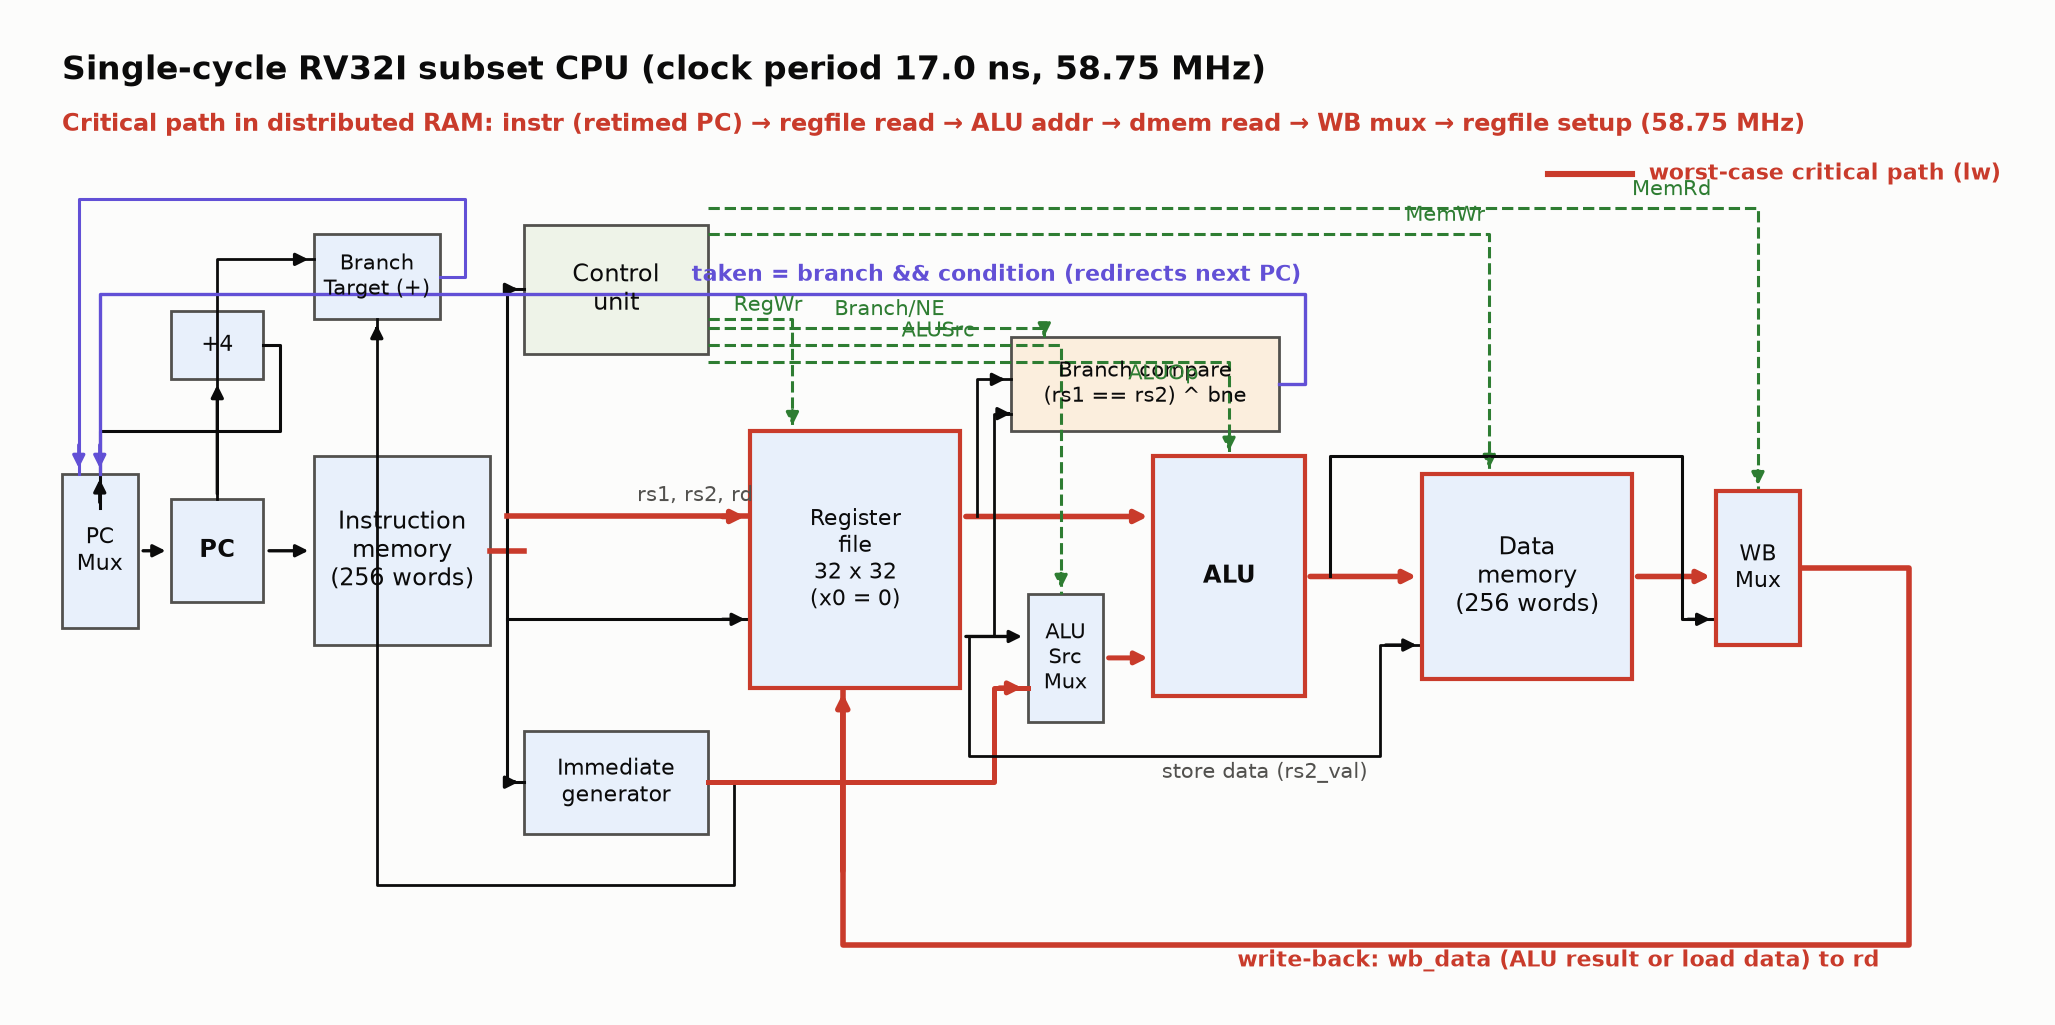
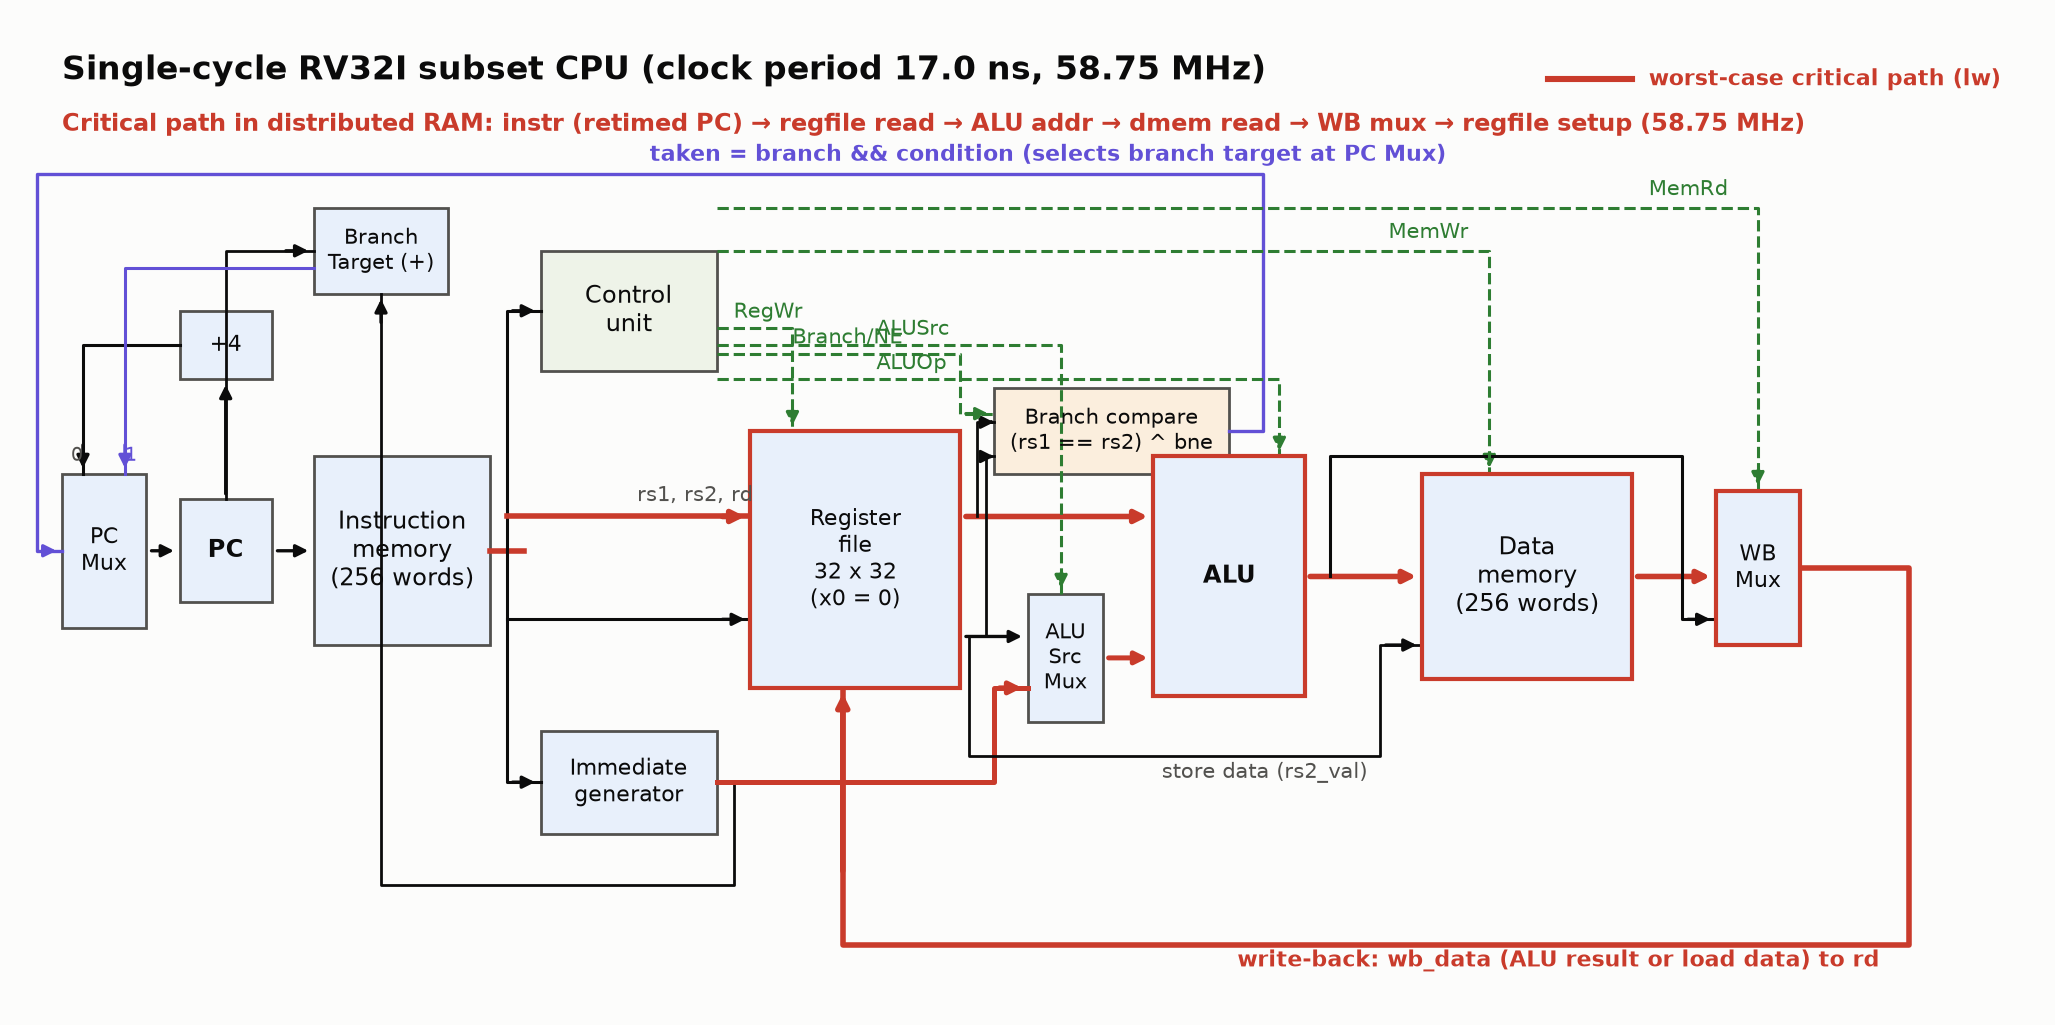
fix(report): fix architecture_single overlaps, PC Mux inputs, and viva datapath sketch

diff --git a/tools/figures.py b/tools/figures.py
@@ -370,53 +370,61 @@ def fig_architecture_single() -> None:
     ctrl_color = "#2e7d32"
     branch_color = "#6250d6"
 
+    # Header and Banner
     ax.text(0.5, 10.8, f"Single-cycle RV32I subset CPU (clock period {period_ns:.1f} ns, {fmax:.2f} MHz)",
             fontsize=12, fontweight="bold")
-
-    # Critical path highlight banner
     ax.text(0.5, 10.2, f"Critical path in distributed RAM: instr (retimed PC) → regfile read → ALU addr → dmem read → WB mux → regfile setup ({fmax:.2f} MHz)",
             fontsize=8.5, color=crit_color, fontweight="bold")
 
-    # PC Mux & PC
-    box(ax, 0.5, 4.4, 0.9, 1.8, "PC\nMux", size=8)
-    box(ax, 1.8, 4.7, 1.1, 1.2, "PC", weight="bold")
-    arrow(ax, (1.4, 5.3), (1.8, 5.3))
+    # Legend at top right (away from all wires and labels)
+    ax.plot([18.2, 19.2], [10.8, 10.8], color=crit_color, linewidth=2.2)
+    ax.text(19.4, 10.8, "worst-case critical path (lw)", va="center", fontsize=8, color=crit_color, fontweight="bold")
 
-    # PC Adders (+4 and Branch target)
-    box(ax, 1.8, 7.3, 1.1, 0.8, "+4", size=8)
-    arrow(ax, (2.35, 5.9), (2.35, 7.3))
-    # PC+4 to PC mux
-    ax.plot([2.9, 3.1, 3.1, 0.95, 0.95], [7.7, 7.7, 6.7, 6.7, 5.8], color=INK, linewidth=1.1)
-    arrow(ax, (0.95, 5.8), (0.95, 6.2))
+    # 1. PC Mux & PC
+    box(ax, 0.5, 4.4, 1.0, 1.8, "PC\nMux", size=8)
+    box(ax, 1.9, 4.7, 1.1, 1.2, "PC", weight="bold")
+    arrow(ax, (1.5, 5.3), (1.9, 5.3))
 
-    # Instruction memory
+    # PC Adders: +4 and Branch target
+    box(ax, 1.9, 7.3, 1.1, 0.8, "+4", size=8)
+    # PC to +4 adder
+    arrow(ax, (2.45, 5.9), (2.45, 7.3))
+    # PC+4 to PC Mux input 0 (enters from top-left of PC Mux at x=0.75)
+    ax.plot([1.9, 0.75, 0.75], [7.7, 7.7, 6.2], color=INK, linewidth=1.1)
+    arrow(ax, (0.75, 6.6), (0.75, 6.2))
+    ax.text(0.75, 6.35, "0", fontsize=7, color=INK2, ha="right")
+
+    # Branch Target adder (PC + imm) placed at x=3.5, y=8.3, h=1.0
+    box(ax, 3.5, 8.3, 1.6, 1.0, "Branch\nTarget (+)", size=7.5)
+    # PC to Branch Target adder
+    ax.plot([2.45, 2.45, 3.5], [5.9, 8.8, 8.8], color=INK, linewidth=1.0)
+    arrow(ax, (3.1, 8.8), (3.5, 8.8))
+    # imm to Branch Target adder
+    ax.plot([8.3, 8.5, 8.5, 4.3, 4.3], [2.6, 2.6, 1.4, 1.4, 8.3], color=INK, linewidth=1.0)
+    arrow(ax, (4.3, 7.9), (4.3, 8.3))
+    # Branch target output to PC Mux input 1 (enters from top-right of PC Mux at x=1.25)
+    ax.plot([3.5, 1.25, 1.25], [8.6, 8.6, 6.2], color=branch_color, linewidth=1.1)
+    arrow(ax, (1.25, 6.6), (1.25, 6.2), color=branch_color)
+    ax.text(1.25, 6.35, "1", fontsize=7, color=branch_color, ha="left")
+
+    # 2. Instruction memory
     box(ax, 3.5, 4.2, 2.1, 2.2, "Instruction\nmemory\n(256 words)")
-    arrow(ax, (2.9, 5.3), (3.5, 5.3))
+    arrow(ax, (3.0, 5.3), (3.5, 5.3))
 
     # Instruction bus split out of IMEM (Critical path starts at retimed instr)
     ax.plot([5.6, 6.0], [5.3, 5.3], color=crit_color, linewidth=2.0)
 
-    # Control unit
-    box(ax, 6.0, 7.6, 2.2, 1.5, "Control\nunit", fill="#eef3e8", size=8.5)
-    ax.plot([5.8, 5.8, 6.0], [5.3, 8.35, 8.35], color=INK, linewidth=1.1)
-    arrow(ax, (5.8, 8.35), (6.0, 8.35))
+    # 3. Control unit (placed at x=6.2, y=7.4, w=2.1, h=1.4)
+    box(ax, 6.2, 7.4, 2.1, 1.4, "Control\nunit", fill="#eef3e8", size=8.5)
+    ax.plot([5.8, 5.8, 6.2], [5.3, 8.1, 8.1], color=INK, linewidth=1.1)
+    arrow(ax, (5.8, 8.1), (6.2, 8.1))
 
-    # Immediate generator
-    box(ax, 6.0, 2.0, 2.2, 1.2, "Immediate\ngenerator", size=8)
-    ax.plot([5.8, 5.8, 6.0], [5.3, 2.6, 2.6], color=INK, linewidth=1.1)
-    arrow(ax, (5.8, 2.6), (6.0, 2.6))
+    # 4. Immediate generator
+    box(ax, 6.2, 2.0, 2.1, 1.2, "Immediate\ngenerator", size=8)
+    ax.plot([5.8, 5.8, 6.2], [5.3, 2.6, 2.6], color=INK, linewidth=1.1)
+    arrow(ax, (5.8, 2.6), (6.2, 2.6))
 
-    # Branch Target adder (PC + imm)
-    box(ax, 3.5, 8.0, 1.5, 1.0, "Branch\nTarget (+)", size=7.5)
-    ax.plot([2.35, 2.35, 3.5], [5.9, 8.7, 8.7], color=INK, linewidth=1.0)
-    arrow(ax, (3.2, 8.7), (3.5, 8.7))
-    ax.plot([8.2, 8.5, 8.5, 4.25, 4.25], [2.6, 2.6, 1.4, 1.4, 8.0], color=INK, linewidth=1.0)
-    arrow(ax, (4.25, 7.8), (4.25, 8.0))
-    # Branch target output to PC mux
-    ax.plot([5.0, 5.3, 5.3, 0.7, 0.7], [8.5, 8.5, 9.4, 9.4, 6.2], color=branch_color, linewidth=1.1)
-    arrow(ax, (0.7, 6.6), (0.7, 6.2), color=branch_color)
-
-    # Register file (Critical path passes through rs1 read)
+    # 5. Register file (Critical path passes through rs1 read)
     ax.add_patch(Rectangle((8.7, 3.7), 2.5, 3.0, facecolor=CELL_FILL, edgecolor=crit_color, linewidth=1.5, zorder=3))
     ax.text(8.7 + 1.25, 3.7 + 1.5, "Register\nfile\n32 x 32\n(x0 = 0)", ha="center", va="center", fontsize=8, zorder=4)
     ax.plot([5.8, 8.7], [5.7, 5.7], color=crit_color, linewidth=2.0)
@@ -425,31 +433,34 @@ def fig_architecture_single() -> None:
     ax.plot([5.8, 8.7], [4.5, 4.5], color=INK, linewidth=1.1)
     arrow(ax, (8.3, 4.5), (8.7, 4.5))
 
-    # ALU Src Mux
+    # 6. ALU Src Mux
     box(ax, 12.0, 3.3, 0.9, 1.5, "ALU\nSrc\nMux", size=7.5)
     arrow(ax, (11.2, 4.3), (12.0, 4.3))
-    ax.plot([8.2, 11.6, 11.6, 12.0], [2.6, 2.6, 3.7, 3.7], color=crit_color, linewidth=1.8)
+    ax.plot([8.3, 11.6, 11.6, 12.0], [2.6, 2.6, 3.7, 3.7], color=crit_color, linewidth=1.8)
     arrow(ax, (11.6, 3.7), (12.0, 3.7), color=crit_color, lw=1.8)
 
-    # ALU (Critical path computes memory address a + imm)
+    # 7. ALU (Critical path computes memory address a + imm)
     ax.add_patch(Rectangle((13.5, 3.6), 1.8, 2.8, facecolor=CELL_FILL, edgecolor=crit_color, linewidth=1.5, zorder=3))
     ax.text(13.5 + 0.9, 3.6 + 1.4, "ALU", ha="center", va="center", fontsize=8.5, fontweight="bold", zorder=4)
     arrow(ax, (11.2, 5.7), (13.5, 5.7), color=crit_color, lw=2.0)
     arrow(ax, (12.9, 4.05), (13.5, 4.05), color=crit_color, lw=1.8)
 
-    # Branch comparator (lowered to y=6.7 to leave clear space above)
-    box(ax, 11.8, 6.7, 3.2, 1.1, "Branch compare\n(rs1 == rs2) ^ bne", fill="#fbeedd", size=7.5)
-    ax.plot([11.4, 11.4, 11.8], [5.7, 7.3, 7.3], color=INK, linewidth=1.0)
-    arrow(ax, (11.6, 7.3), (11.8, 7.3))
-    ax.plot([11.6, 11.6, 11.8], [4.3, 6.9, 6.9], color=INK, linewidth=1.0)
-    arrow(ax, (11.7, 6.9), (11.8, 6.9))
+    # 8. Branch comparator (placed at x=11.6, y=6.2, w=2.8, h=1.0)
+    box(ax, 11.6, 6.2, 2.8, 1.0, "Branch compare\n(rs1 == rs2) ^ bne", fill="#fbeedd", size=7.5)
+    ax.plot([11.4, 11.4, 11.6], [5.7, 6.8, 6.8], color=INK, linewidth=1.0)
+    arrow(ax, (11.5, 6.8), (11.6, 6.8))
+    ax.plot([11.5, 11.5, 11.6], [4.3, 6.4, 6.4], color=INK, linewidth=1.0)
+    arrow(ax, (11.55, 6.4), (11.6, 6.4))
 
-    # Taken redirect wire (in branch_color, routed cleanly at y=8.3)
-    ax.plot([15.0, 15.3, 15.3, 0.95, 0.95], [7.25, 7.25, 8.3, 8.3, 6.2], color=branch_color, linewidth=1.2)
-    arrow(ax, (0.95, 6.6), (0.95, 6.2), color=branch_color)
-    ax.text(8.0, 8.45, "taken = branch && condition (redirects next PC)", fontsize=8, color=branch_color, fontweight="bold")
+    # Taken redirect wire (in branch_color):
+    # Runs from Branch compare (14.4, 6.7) up to y=9.7 (completely above Branch Target box),
+    # then left all the way to x=0.2, then down to y=5.3, entering left side of PC Mux!
+    ax.plot([14.4, 14.8, 14.8, 0.2, 0.2, 0.5], [6.7, 6.7, 9.7, 9.7, 5.3, 5.3], color=branch_color, linewidth=1.2)
+    arrow(ax, (0.2, 5.3), (0.5, 5.3), color=branch_color)
+    ax.text(7.5, 9.85, "taken = branch && condition (selects branch target at PC Mux)",
+            fontsize=8, color=branch_color, fontweight="bold")
 
-    # Data Memory (Critical path reads data memory)
+    # 9. Data Memory (Critical path reads data memory)
     ax.add_patch(Rectangle((16.7, 3.8), 2.5, 2.4, facecolor=CELL_FILL, edgecolor=crit_color, linewidth=1.5, zorder=3))
     ax.text(16.7 + 1.25, 3.8 + 1.2, "Data\nmemory\n(256 words)", ha="center", va="center", fontsize=8.5, zorder=4)
     arrow(ax, (15.3, 5.0), (16.7, 5.0), color=crit_color, lw=2.0)
@@ -458,7 +469,7 @@ def fig_architecture_single() -> None:
     arrow(ax, (16.2, 4.2), (16.7, 4.2))
     ax.text(13.6, 2.65, "store data (rs2_val)", fontsize=7.5, color=INK2)
 
-    # WB Mux (Critical path selects load data)
+    # 10. WB Mux (Critical path selects load data)
     ax.add_patch(Rectangle((20.2, 4.2), 1.0, 1.8, facecolor=CELL_FILL, edgecolor=crit_color, linewidth=1.5, zorder=3))
     ax.text(20.2 + 0.5, 4.2 + 0.9, "WB\nMux", ha="center", va="center", fontsize=8, zorder=4)
     arrow(ax, (19.2, 5.0), (20.2, 5.0), color=crit_color, lw=2.0)
@@ -466,43 +477,45 @@ def fig_architecture_single() -> None:
     ax.plot([15.6, 15.6, 19.8, 19.8, 20.2], [5.0, 6.4, 6.4, 4.5, 4.5], color=INK, linewidth=1.1)
     arrow(ax, (19.8, 4.5), (20.2, 4.5))
 
-    # Write-back bus back to Register File (Critical path completes write-back)
+    # 11. Write-back bus back to Register File (Critical path completes write-back)
     ax.plot([21.2, 22.5, 22.5, 9.8, 9.8], [5.1, 5.1, 0.7, 0.7, 3.7], color=crit_color, linewidth=2.0)
     arrow(ax, (9.8, 1.5), (9.8, 3.7), color=crit_color, lw=2.0)
-    ax.text(14.5, 0.45, "write-back: wb_data (ALU result or load data) to rd", fontsize=8, color=crit_color, fontweight="bold")
+    ax.text(14.5, 0.45, "write-back: wb_data (ALU result or load data) to rd",
+            fontsize=8, color=crit_color, fontweight="bold")
 
-    # Legend for critical path
-    ax.plot([18.2, 19.2], [9.7, 9.7], color=crit_color, linewidth=2.2)
-    ax.text(19.4, 9.7, "worst-case critical path (lw)", va="center", fontsize=8, color=crit_color, fontweight="bold")
-
-    # Control lines (routed high at y=8.9, 9.1, 9.3 so they clear all blocks)
-    ax.plot([8.2, 9.2, 9.2], [8.0, 8.0, 6.7], color=ctrl_color, lw=1.1, ls="--")
+    # 12. Control lines (dashed, completely avoiding all text and boxes)
+    # RegWr
+    ax.plot([8.3, 9.2, 9.2], [7.9, 7.9, 6.7], color=ctrl_color, lw=1.1, ls="--")
     arrow(ax, (9.2, 7.0), (9.2, 6.7), color=ctrl_color, ls="--")
-    ax.text(8.5, 8.1, "RegWr", fontsize=7.5, color=ctrl_color)
+    ax.text(8.5, 8.02, "RegWr", fontsize=7.5, color=ctrl_color)
 
-    ax.plot([8.2, 12.4, 12.4], [7.7, 7.7, 4.8], color=ctrl_color, lw=1.1, ls="--")
+    # ALUSrc
+    ax.plot([8.3, 12.4, 12.4], [7.7, 7.7, 4.8], color=ctrl_color, lw=1.1, ls="--")
     arrow(ax, (12.4, 5.1), (12.4, 4.8), color=ctrl_color, ls="--")
-    ax.text(10.5, 7.8, "ALUSrc", fontsize=7.5, color=ctrl_color)
+    ax.text(10.2, 7.82, "ALUSrc", fontsize=7.5, color=ctrl_color)
 
     # Branch control to branch compare box
-    ax.plot([8.2, 12.2, 12.2], [7.9, 7.9, 7.8], color=ctrl_color, lw=1.1, ls="--")
-    arrow(ax, (12.2, 7.9), (12.2, 7.8), color=ctrl_color, ls="--")
-    ax.text(9.7, 8.05, "Branch/NE", fontsize=7.5, color=ctrl_color)
+    ax.plot([8.3, 11.2, 11.2, 11.6], [7.6, 7.6, 6.9, 6.9], color=ctrl_color, lw=1.1, ls="--")
+    arrow(ax, (11.2, 6.9), (11.6, 6.9), color=ctrl_color, ls="--")
+    ax.text(9.2, 7.72, "Branch/NE", fontsize=7.5, color=ctrl_color)
 
-    # ALUOp
-    ax.plot([8.2, 14.4, 14.4], [7.5, 7.5, 6.4], color=ctrl_color, lw=1.1, ls="--")
-    arrow(ax, (14.4, 6.7), (14.4, 6.4), color=ctrl_color, ls="--")
-    ax.text(13.2, 7.3, "ALUOp", fontsize=7.5, color=ctrl_color)
+    # ALUOp - routes to x=15.0 (right side of ALU, above at y=7.3, drops down to 6.4)
+    # Does NOT pass through Branch compare (which is at x=11.6 to 14.4, y=6.2 to 7.2)
+    ax.plot([8.3, 15.0, 15.0], [7.3, 7.3, 6.4], color=ctrl_color, lw=1.1, ls="--")
+    arrow(ax, (15.0, 6.7), (15.0, 6.4), color=ctrl_color, ls="--")
+    ax.text(10.2, 7.42, "ALUOp", fontsize=7.5, color=ctrl_color)
 
-    # MemWr routed high at y=9.0
-    ax.plot([8.2, 17.5, 17.5], [9.0, 9.0, 6.2], color=ctrl_color, lw=1.1, ls="--")
+    # MemWr - routes at y=8.8 to x=17.5, drops down to 6.2
+    # Text placed at (16.3, 8.95), above the dashed line
+    ax.plot([8.3, 17.5, 17.5], [8.8, 8.8, 6.2], color=ctrl_color, lw=1.1, ls="--")
     arrow(ax, (17.5, 6.5), (17.5, 6.2), color=ctrl_color, ls="--")
-    ax.text(16.5, 9.15, "MemWr", fontsize=7.5, color=ctrl_color)
+    ax.text(16.3, 8.95, "MemWr", fontsize=7.5, color=ctrl_color)
 
-    # MemRd routed high at y=9.3
-    ax.plot([8.2, 20.7, 20.7], [9.3, 9.3, 6.0], color=ctrl_color, lw=1.1, ls="--")
+    # MemRd - routes at y=9.3 to x=20.7, drops down to 6.0
+    # Text placed at (19.4, 9.45), above the dashed line
+    ax.plot([8.3, 20.7, 20.7], [9.3, 9.3, 6.0], color=ctrl_color, lw=1.1, ls="--")
     arrow(ax, (20.7, 6.3), (20.7, 6.0), color=ctrl_color, ls="--")
-    ax.text(19.2, 9.45, "MemRd", fontsize=7.5, color=ctrl_color)
+    ax.text(19.4, 9.45, "MemRd", fontsize=7.5, color=ctrl_color)
 
     fig.savefig(FIG / "architecture_single.png")
     plt.close(fig)

diff --git a/docs/viva/aryan.md b/docs/viva/aryan.md
@@ -30,17 +30,17 @@ which latch synchronously on the rising clock edge.
                               (rs1, rs2)                   |              |
                                 |       |                  v              |
                                 |       +-----------> [ 32-bit ALU ]      |
-                                |       |                  |              |
-                                v       v                  |              |
-                             [ Branch == ]                 v              |
-                                    |               [ Data Memory ]       |
-                                    v                      |              |
-                                  taken                    v              |
-                                    |               [  WB Mux  ] <--------+ (alu_y)
-                                    |                      |
-                                    |                      v (wb_data)
-                                    |               [ Regfile wdata ]
-                                    |
+                                |       |               |        |        |
+                                v       v               |        | (alu_y)|
+                             [ Branch == ]              v        |        |
+                                    |            [ Data Memory ] |        |
+                                    v                   |        |        |
+                                  taken                 v        v        |
+                                    |            [      WB Mux     ]      |
+                                    |                   |                 |
+                                    |                   v (wb_data)       |
+                                    |            [ Regfile wdata ]        |
+                                    |                                     |
                                     +-------------------------------------+
 ```
 
